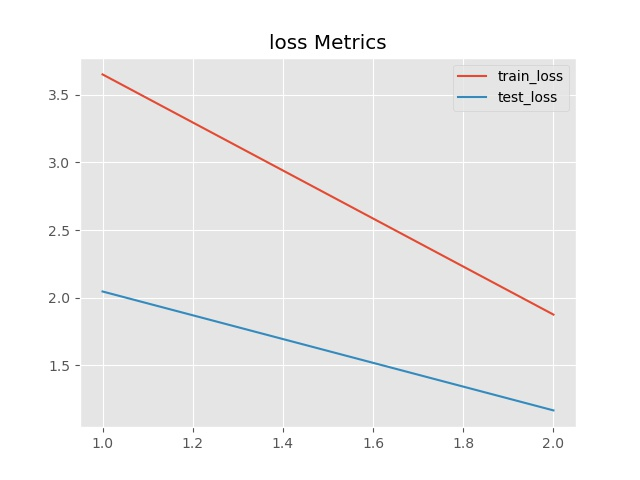
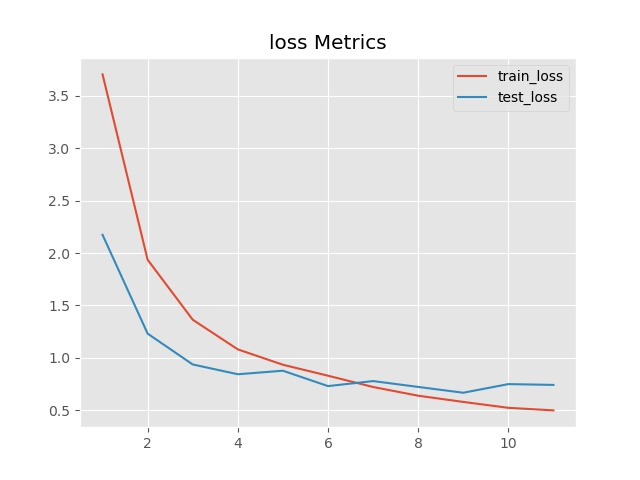
2021/6/1 Update the tutorial in detail

diff --git a/demo/resnet_demo1.py b/demo/resnet_demo1.py
@@ -15,6 +15,6 @@ if __name__ == '__main__':
 
     utils = ModelUtils().build(model).compose(lr=1e-3)
     utils.open_checkpoint_output_image(out_dir="./out/resnet/").open_checkpoint(only_best=True)
-    utils.train(epochs=20, train_dataloader=train_dataloader, test_dataloader=test_dataloader)
+    utils.train(epochs=10, train_dataloader=train_dataloader, test_dataloader=test_dataloader)
 
 

diff --git a/README.md b/README.md
@@ -6,11 +6,11 @@ This tool can quickly build models, fine tune, output graphs, excel, models and 
 
 ### environment
 ```
-Pytorch 1.8.0
-cuda 11.1
+Pytorch 1.0
+cuda 10
 Python 3.6
 ```
-### How to use?
+### How to easy use?
 
 1.  get a model, you can make one or copy one, and replace classifier. such as:
 ```python
@@ -42,7 +42,7 @@ training epoch[1]: 100%|██████████| 179/179 [00:17<00:00, 10
 evaluate epoch[1]: 100%|██████████| 23/23 [00:01<00:00, 14.06it/s, test_all_loss=1.17, test_loss=1.37, test_rank1=0.631, test_rank5=0.948]
 ```
 
-### A Sample, 87 classes Gemstones Classfication
+### A Sample, 87 classes gemstones classfication
 Already dowmload dataset in ```dataset/Gemstones.7z```, and you need to unzip
 
 #### MyDataset
@@ -53,6 +53,7 @@ dataset_name
    │  ├─ class 1
    │  ├─ class 2
    │  ├─ ...
+   │
    └─train
       ├─ class 1
       ├─ class 2
@@ -62,6 +63,81 @@ you only need to modify **data_path** in ```demo/gemstones_dataset.py```
 
 #### Use resnet34 model to classify Gemstones
 python file in ```demo/resnet_demo1.py```, you only need to click running this file.
+
+### How to use ModelUtils?
+ModelUtils is developed based on Pytorch Model.
+
+Part of my approach to ModelUtils implementation uses the same **chained programming** as ```jQuery```
+
+#### Get Model
+So,you first need to get model object.
+
+For simplicity, I simply grab the already defined model.
+
+```python
+from torchvision.models import resnet34
+model = resnet34(pretrained=True)
+```
+
+#### Using ModelUtils load the model and initialize it
+Get ModelUtils object, and use build() method, 
+build() first parameter need a pytorch model(nn.module)
+```python
+from utils import ModelUtils
+utils = ModelUtils().build(model)
+```
+Now the model has been transferred to CUDA, if you have a CUDA.
+
+#### Setting Training Parameters
+compose have 
+```python
+utils.compose(lr=1e-3)
+```
+The compose method has a number of parameters that can be passed to the `optimizer`, `scheduler`, 
+`loss function`, etc. 
+
+If this is two classes classfication task, you can open `is_two_category=True`.
+Will output automatically `Recall`, `Specificity` and `F1-score` etc.
+
+Even you can turn on semi-precision training ,use `is_half=True`.
+
+for example:
+```python
+optimizer = torch.optim.RMSprop(model.parameters(), lr=1e-5)
+scheduler = torch.optim.lr_scheduler.ExponentialLR(optimizer, gamma=0.95)
+utils = ModelUtils().build(model).compose(optimizer=optimizer, scheduler=scheduler,is_two_category=True)
+```
+
+but you can also **choose to set nothing at all**. 
+
+The default for the loss function is `CrosSentroPyLoss`, 
+and the default for the optimizer is `SGD`. 
+Learning Rate Decay Default `ExponentiAllr (Optimizer, Gamma =0.99)`
+
+#### Set up automatic output model, automatic output loss accuracy, etc
+If you want to train the output model one at a time, the open_checkpoint method does not require any parameters
+```python
+utils.open_checkpoint_output_image(out_dir="./out/resnet/").open_checkpoint(only_best=True)
+```
+
+##### output trained excel
+When you are done, you can use the method to output the Excel table
+```python
+utils.output_trained_excel()
+```
+
+##### training
+A DataSet must conform to the Python specification and return a  tuple(image, label), 
+for example:```demo/gemstones_dataset.py```
+
+```python
+utils.train(epochs=10, train_dataloader=train_dataloader, test_dataloader=test_dataloader)
+```
+
+**NOTE:** If the model adds softmax at the end, 
+change `is_softmax = True` and do not use the cross-entropy cost function
+
+
 
 
 
